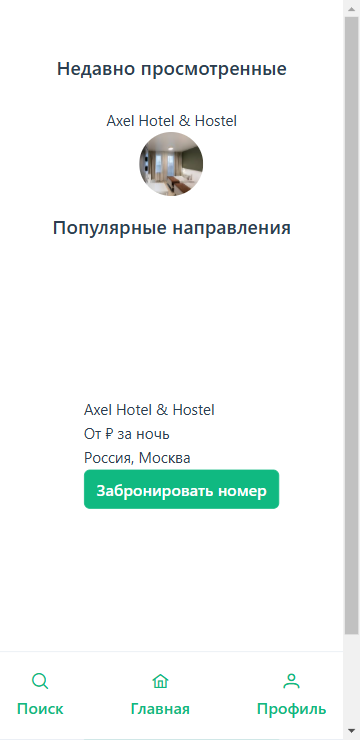
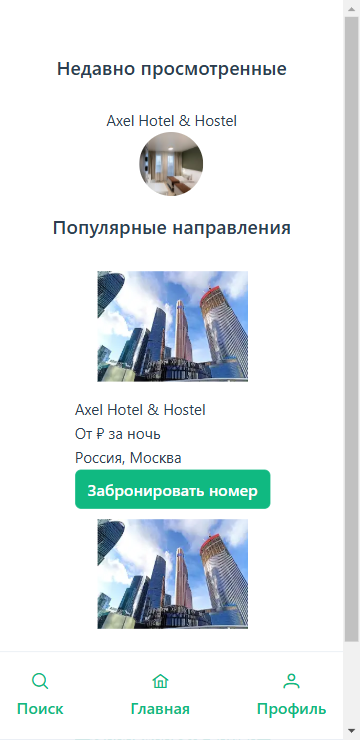
working search

diff --git a/booking-app.client/src/components/SearchComponent.vue b/booking-app.client/src/components/SearchComponent.vue
@@ -1,10 +1,10 @@
 <template>
-    <Form v-slot="$form" :initialValues :resolver @submit="onFormSubmit" class="form">
+    <Form v-slot="$form" :initialValues="initialValues" @submit="onFormSubmit" class="form">
         <div class="div">
-            <div>
-                <InputText name="hotelname" type="text" placeholder="Поиск" fluid icon @keyup.enter="onFormSubmit" />
-                <Button text="sadsd"></Button>
-            </div>
+            <IconField>
+                <InputText name="name" type="text" placeholder="Поиск" fluid icon @keyup.enter="requestSubmit" />
+                <InputIcon class="pi pi-search" @click="requestSubmit"></InputIcon>
+            </IconField>
 
             <div class="optionsDiv">
                 <p>Время проживания</p>
@@ -44,18 +44,20 @@
                 <div class="options">
                     <div>
                         <p>От</p>
-                        <AutoComplete name="bottomPrice" dropdown />
+                        <AutoComplete name="minPrice" dropdown />
                     </div>
 
                     <div>
                         <p>До</p>
-                        <AutoComplete name="topPrice" dropdown />
+                        <AutoComplete name="maxPrice" dropdown />
                     </div>
+
+
                 </div>
             </div>
 
         </div>
-        <HotelList />
+        <HotelList :criteria="searchRequest" />
         <Navbar />
     </Form>
 
@@ -65,6 +67,7 @@
 
 
 <script setup>
+import { ref } from 'vue';
 import { Form } from '@primevue/forms';
 import InputText from 'primevue/inputtext';
 import InputIcon from 'primevue/inputicon';
@@ -73,39 +76,47 @@ import DatePicker from 'primevue/datepicker';
 import AutoComplete from 'primevue/autocomplete';
 import Navbar from './NavbarComponent.vue';
 import HotelList from './HotelListComponent.vue';
-import Button from 'primevue/button';
 
-async function onFormSubmit(values) {
-    const searchRequest = {
-        name: $form.name,
-        arrivalDate: values.arrivalDate,
-        departureDate: values.departureDate,
-        country: values.country,
-        city: values.city,
-        minPrice: values.minPrice,
-        maxPrice: values.maxPrice
+const initialValues = {
+    name: '',
+    arrivalDate: null, // Начальное значение для даты
+    departureDate: null, // Начальное значение для даты
+    country: '',
+    city: '',
+    minPrice: null,
+    maxPrice: null
+};
+
+const searchRequest = ref({
+    name: '',
+    arrivalDate: null,
+    departureDate: null,
+    country: '',
+    city: '',
+    minPrice: null,
+    maxPrice: null
+})
+
+async function requestSubmit() {
+    const myForm = document.querySelector("form");
+    myForm.requestSubmit();
+}
+
+async function onFormSubmit(form) {
+    searchRequest.value =
+    {
+        name: form.states.name.value,
+        arrivalDate: form.states.arrivalDate.value,
+        departureDate: form.states.departureDate.value,
+        country: form.states.country.value,
+        city: form.states.city.value,
+        minPrice: form.states.minPrice.value,
+        maxPrice: form.states.maxPrice.value
     };
 
-    console.log('Отправка запроса:', searchRequest);
+    console.log('Критерии поиска обновлены:', searchRequest);
 
-    try {
-        const response = await fetch('https://localhost:7273/api/Hotels/SearchHotels', {
-            method: 'POST',
-            headers: {
-                'Content-Type': 'application/json'
-            },
-            body: JSON.stringify(searchRequest)
-        });
 
-        if (!response.ok) {
-            throw new Error(`Ошибка: ${response.status} ${response.statusText}`);
-        }
-
-        const hotels = await response.json();
-        console.log('Полученные данные:', hotels);
-    } catch (error) {
-        console.error('Ошибка при выполнении запроса:', error.message);
-    }
 }
 
 </script>

diff --git a/booking-app.client/src/components/HotelListComponent.vue b/booking-app.client/src/components/HotelListComponent.vue
@@ -5,7 +5,7 @@
         </div>
         <div v-else>
             <div v-for="hotel in hotels" :key="hotel.id" class="item">
-                <Image :src="hotel.pictureLinks[0]" width="150" height="110" />
+                <Image :src="hotel.picture" width="150" height="110" />
                 <div class="info">
                     <p class="hotelName">{{ hotel.name }}</p>
                     <p class="price">От {{ hotel.price }}₽ за ночь</p>
@@ -34,12 +34,14 @@ const props = defineProps({
 const hotels = ref([]); // Состояние для хранения списка отелей
 const router = useRouter();
 
+
 // Функция для получения данных с сервера
-async function fetchHotels(searchCriteria = null) {
+async function fetchHotels(searchCriteria) {
+    console.log(JSON.stringify(searchCriteria))
     try {
-        const url = searchCriteria
-            ? 'https://localhost:7273/api/Hotels/search' // Эндпоинт для поиска
-            : 'https://localhost:7273/api/Hotels'; // Эндпоинт для всех отелей
+        const url = searchCriteria ? 'https://localhost:7273/api/Hotels/SearchHotels' :
+            'https://localhost:7273/api/Hotels/GetHotelsDTO';
+
 
         const response = await fetch(url, {
             method: searchCriteria ? 'POST' : 'GET', // Метод POST для поиска, GET для всех
@@ -49,12 +51,14 @@ async function fetchHotels(searchCriteria = null) {
             body: searchCriteria ? JSON.stringify(searchCriteria) : null
         });
 
-        if (!response.ok) {
+
+        if (response.status != 404 && response.status != 200) {
             throw new Error(`Ошибка HTTP: ${response.status}`);
         }
-
         const data = await response.json();
+
         hotels.value = data;
+        console.log(hotels.value)
     } catch (error) {
         console.error('Ошибка при загрузке отелей:', error);
         hotels.value = []; // Очищаем список отелей в случае ошибки
@@ -70,6 +74,7 @@ function goToHotelInfo(hotelId) {
 watch(
     () => props.criteria, // Доступ к критериям через props
     (newCriteria) => {
+        console.log('Критерии поиска изменились:', newCriteria);
         fetchHotels(newCriteria);
     },
     { immediate: true }

diff --git a/booking-app.client/tests/testSearch.js b/booking-app.client/tests/testSearch.js
@@ -1,0 +1,33 @@
+import puppeteer from "puppeteer";
+async function testApp() {
+  console.log("Запустить браузер");
+  const browser = await puppeteer.launch({
+    headless: false,
+    slowMo: 100
+  });
+  console.log("Открыть вкладку браузера");
+  const page = await browser.newPage();
+  console.log("Открыть страницу");
+  await page.goto("https://localhost:5173/search");
+  console.log("Задать разрешение страницы");
+  await page.setViewport({ width: 360, height: 740 });
+
+  const searchField = await page.$(
+    "#app > main > form > div.div > div.p-iconfield > input"
+  );
+  await searchField.type("Axel");
+  console.log("Клик по кнопке");
+  await page.$eval(
+    "#app > main > form > div.div > div.p-iconfield > span",
+    elem => elem.click()
+  );
+  console.log("Поиск элемента с названием 'Результаты поиска'");
+  const resultContent = await page.$("#app > main > form > div.hotelList");
+  if (!resultContent) {
+    console.log("Модуль результатов поиска не найден!");
+  }
+
+  console.log("Закрыть браузер");
+  await browser.close();
+}
+testApp();

diff --git a/booking-app.client/src/components/LoginComponent.vue b/booking-app.client/src/components/LoginComponent.vue
@@ -39,7 +39,7 @@ import { useRouter } from 'vue-router';
 
 const router = useRouter();
 
-function onFormSubmit(values) {
+function onFormSubmit() {
     router.push({ name: 'profile' });
 }
 

diff --git a/Booking-App.Server/Services/HotelService.cs b/Booking-App.Server/Services/HotelService.cs
@@ -35,6 +35,30 @@ namespace Booking_App.Server.Services
             return await _hotelRepository.GetHotels();
         }
 
+        public async Task<List<HotelShortDTO>?> GetHotelsDTO()
+        {
+            var hotels = await _hotelRepository.GetHotels();
+
+            if (hotels == null)
+                return null;
+
+            var hotelDtos = hotels
+                .Select(hotel => new HotelShortDTO
+                {
+                    Name = hotel.Name,
+                    Country = hotel.Country,
+                    City = hotel.City,
+                    Picture = hotel.PictureLinks[0],
+                    MinPrice = hotel.Rooms != null && hotel.Rooms.Any()
+                        ? hotel.Rooms.Min(room => room.Price) // Находим минимальную цену
+                        : null // Если номеров нет, выводим "N/A"
+
+                })
+                .ToList();
+
+            return hotelDtos;
+        }
+
         public async Task<List<HotelShortDTO>?> SearchHotels(HotelSearchRequest request)
         {
             var hotels = await _hotelRepository.SearchHotels(request);
@@ -48,9 +72,11 @@ namespace Booking_App.Server.Services
                     Name = hotel.Name,
                     Country = hotel.Country,
                     City = hotel.City,
+                    Picture = hotel.PictureLinks[0],
                     MinPrice = hotel.Rooms != null && hotel.Rooms.Any()
                         ? hotel.Rooms.Min(room => room.Price) // Находим минимальную цену
                         : null // Если номеров нет, выводим "N/A"
+
                 })
                 .ToList();
 

diff --git a/Booking-App.Server/Repository/HotelRepository.cs b/Booking-App.Server/Repository/HotelRepository.cs
@@ -70,11 +70,11 @@ namespace Booking_App.Server.Repository
             return await db.Hotels
             .Where(hotel =>
                 // Фильтрация по названию отеля (если указано)
-                (string.IsNullOrEmpty(request.Name) || hotel.Name.Contains(request.Name)) &&
+                (string.IsNullOrEmpty(request.Name) || hotel.Name.ToLower().Contains(request.Name.ToLower())) &&
                 // Фильтрация по стране (если указана)
-                (string.IsNullOrEmpty(request.Country) || hotel.Country == request.Country) &&
+                (string.IsNullOrEmpty(request.Country) || hotel.Country.ToLower() == request.Country.ToLower()) &&
                 // Фильтрация по городу (если указан)
-                (string.IsNullOrEmpty(request.City) || hotel.City == request.City) &&
+                (string.IsNullOrEmpty(request.City) || hotel.City.ToLower() == request.City.ToLower()) &&
                 // Проверка, что хотя бы один номер в отеле соответствует ценовому диапазону и доступен по датам
                 hotel.Rooms.Any(room =>
                     // Фильтрация по цене

diff --git a/Booking-App.Server/Controllers/HotelsController.cs b/Booking-App.Server/Controllers/HotelsController.cs
@@ -31,6 +31,13 @@ namespace Booking_App.Server.Controllers
             var hotels = await _hotelService.GetHotels();
             return Ok(hotels);
         }
+
+        [HttpGet("GetHotelsDTO")]
+        public async Task<ActionResult<IEnumerable<HotelShortDTO>>> GetDto()
+        {
+            var hotels = await _hotelService.GetHotelsDTO();
+            return Ok(hotels);
+        }
         // GET: api/Hotels/2
         [HttpGet("{id}")]
         public async Task<ActionResult<IEnumerable<Hotel>>> GetHotelById(int id)

diff --git a/Booking-App.Server/Services/Interfaces/IHotelService.cs b/Booking-App.Server/Services/Interfaces/IHotelService.cs
@@ -8,6 +8,7 @@ namespace Booking_App.Server.Services.Interfaces
         public Task<Hotel?> GetHotel(int id);
 
         public Task<List<Hotel>?> GetHotels();
+        public Task<List<HotelShortDTO>?> GetHotelsDTO();
         public Task<List<HotelShortDTO>?> SearchHotels(HotelSearchRequest request);
         public Task<bool> DeleteHotel(int id);
         public Task<bool> UpdateHotel(Hotel hotel, int id);

diff --git a/Booking-App.Server/DTO/HotelShortDTO.cs b/Booking-App.Server/DTO/HotelShortDTO.cs
@@ -6,5 +6,6 @@
         public string Country { get; set; }
         public string City { get; set; }
         public decimal? MinPrice { get; set; }
+        public string? Picture { get; set; }
     }
 }
